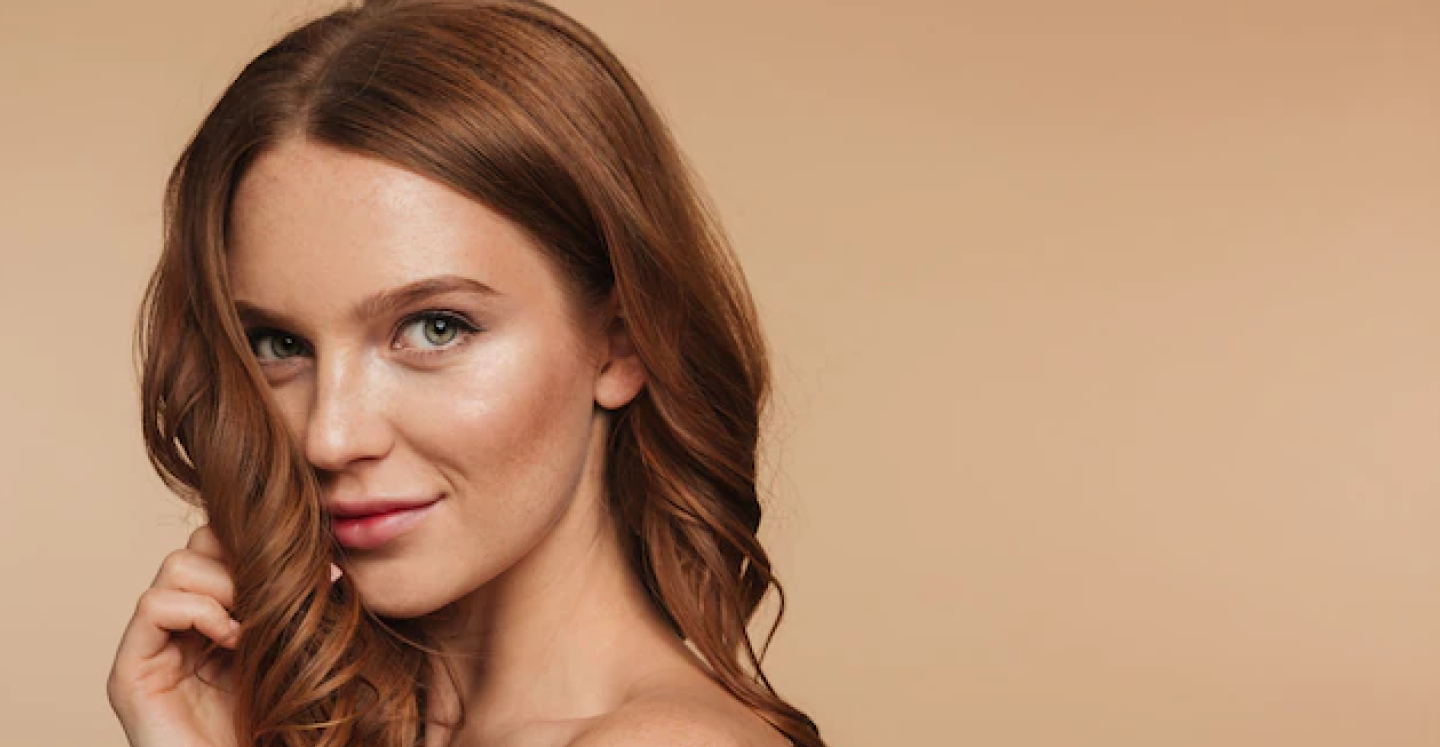
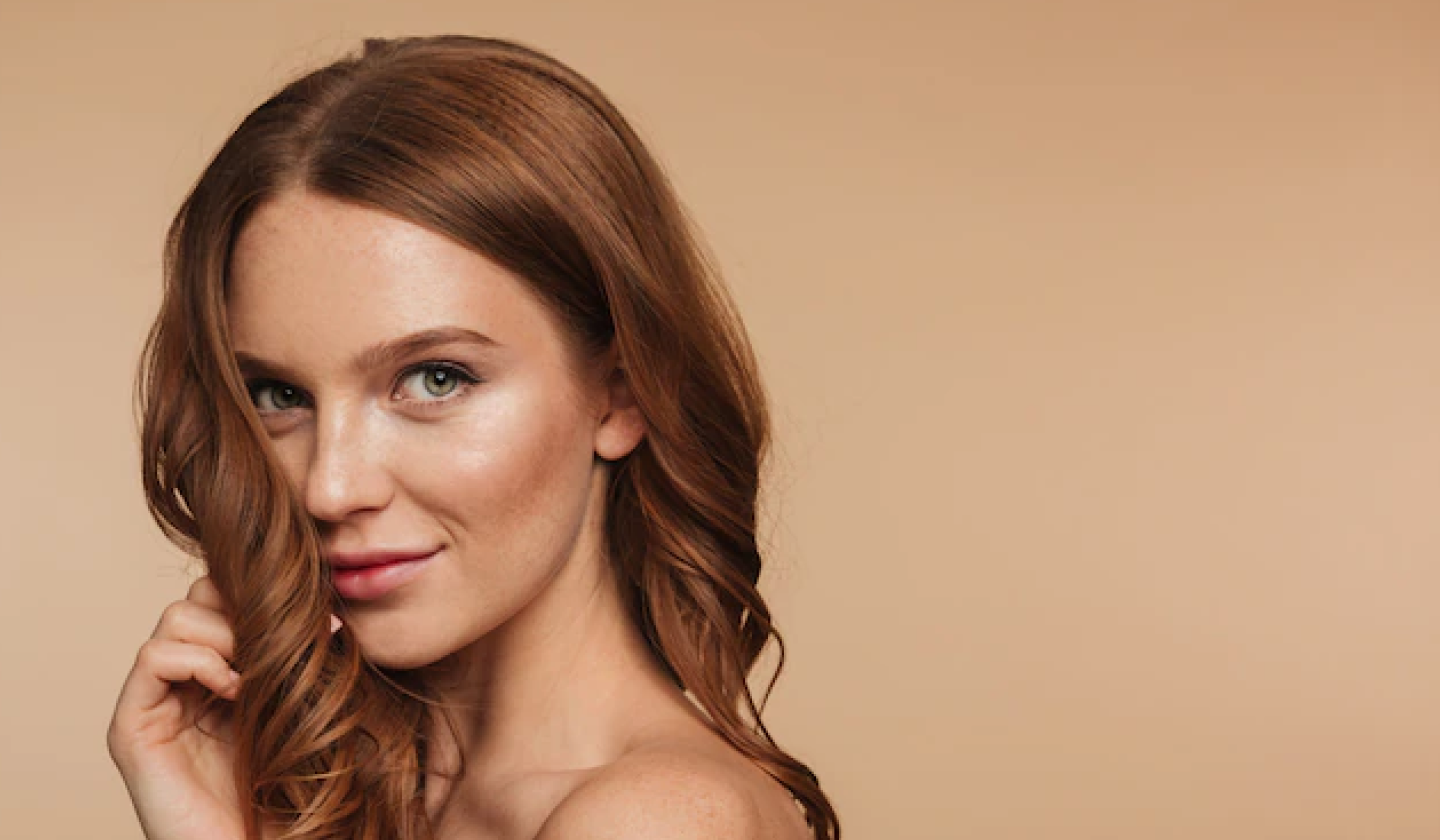
feat: pagina de apresentação do scanner

Changed region(s): [[0.0625, 0.585, 0.5938, 1.0], [0.0938, 0.0, 0.5312, 0.5234], [0.0938, 0.3387, 0.375, 0.5234]]

diff --git a/src/pages/scanner.tsx b/src/pages/scanner.tsx
@@ -9,6 +9,7 @@ import ScannerPresenter from 'src/components/sections/ScannerPresenter'
 import { StepperProvider } from 'src/contexts/StepperContext'
 import { ScannerProvider } from 'src/contexts/ScannerContext'
 import Stepper from 'src/components/common/Stepper'
+import { useWidescreen } from 'src/sdk/ui/useWidescreen'
 
 export type Props = PageProps<ScannerPageQuery>
 
@@ -19,6 +20,12 @@ function Page(props: Props) {
   } = props
 
   const { locale } = useSession()
+  const { isWidescreen } = useWidescreen('(min-width: 724px)')
+  let imgSrc = '/scanner-presentation.png'
+
+  if (!isWidescreen) {
+    imgSrc = '/scanner-presentation-mobile.png'
+  }
 
   const title = site?.siteMetadata?.title ?? ''
   const siteUrl = `https://${host}${pathname}`
@@ -58,14 +65,14 @@ function Page(props: Props) {
             <ScannerPresenter
               title="Vamos descobrir seu perfil de beleza?"
               message="Agora, realizaremos algumas perguntas sobre a sua pele para entendermos as características individuais da sua pele."
-              img="/scanner-presentation.png"
+              img={imgSrc}
               buttonText="Começar"
             />
 
             <ScannerPresenter
               title="Seu perfil de pele está pronto"
               message="Através do nosso teste conseguimos definir a melhor rotina para o seu perfil de beleza. Aproveite os descontos e dicas."
-              img="/scanner-presentation.png"
+              img={imgSrc}
               buttonText="Acessar"
             />
           </Stepper>

diff --git a/src/components/sections/ScannerPresenter/scanner-presenter.scss b/src/components/sections/ScannerPresenter/scanner-presenter.scss
@@ -13,11 +13,20 @@
   position: absolute;
   top: 50%;
   right: 6%;
+  width: 100%;
   max-width: 424px;
   padding: var(--space-7) var(--space-7) var(--space-6) var(--space-7);
   background: linear-gradient(180deg, #f9f3f3 0%, #f9d4c1 100%);
   border-radius: var(--border-radius-regular);
   transform: translateY(-50%);
+
+  @include media("<=tablet") {
+    top: auto;
+    right: 50%;
+    bottom: 0;
+    padding: var(--space-7) var(--space-4) var(--space-6) var(--space-4);
+    transform: translateX(50%);
+  }
 
   &__title {
     margin-bottom: var(--space-3);
@@ -39,5 +48,9 @@
     color: var(--color-neutral-7);
     text-align: center;
     letter-spacing: 0.256px;
+
+    @include media("<=tablet") {
+      padding: 0;
+    }
   }
 }

diff --git a/src/components/common/Navbar/navbar.scss b/src/components/common/Navbar/navbar.scss
@@ -5,6 +5,7 @@
   top: 0;
   right: 0;
   left: 0;
+  z-index: 10;
   height: var(--header-height);
   padding: 0;
   background: var(--bg-header);

diff --git a/src/components/common/Navbar/Navbar.tsx b/src/components/common/Navbar/Navbar.tsx
@@ -79,7 +79,7 @@ const listRow: MainMenuList[] = [
   },
   {
     label: 'Scanner Facial',
-    href: '#',
+    href: '/scanner',
   },
 ]
 
